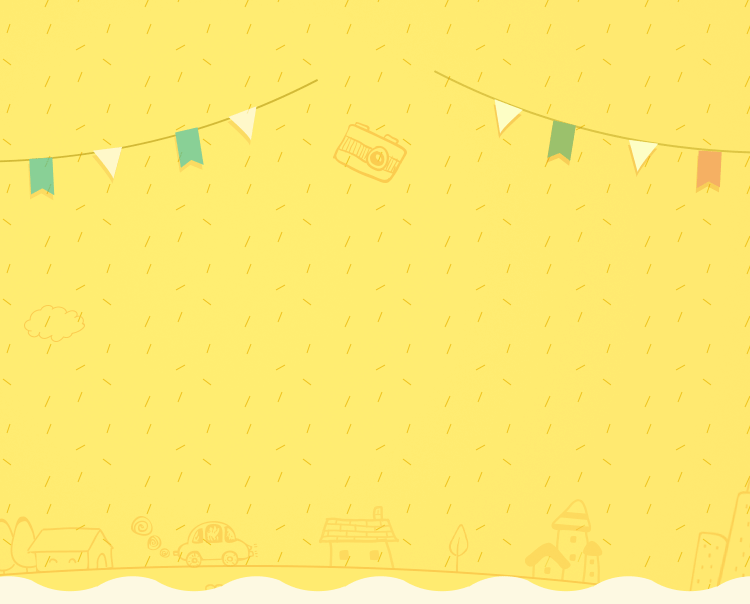
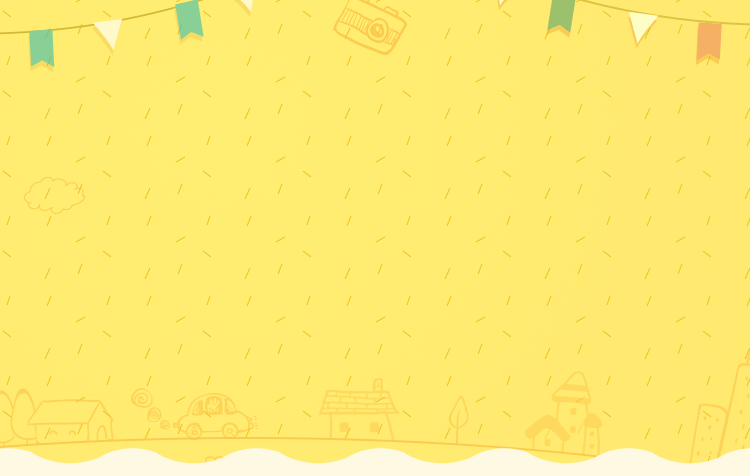
update

diff --git a/activity/fatherDay2016/sass/index.scss b/activity/fatherDay2016/sass/index.scss
@@ -16,7 +16,7 @@
 .banner {
 	width: 100%;
 	position: relative;
-	height: pxToRem(604px);
+	height: pxToRem(476px);
 	background-image: url("../images/icon-banner-bg.png");
 	background-size: cover;
 	background-repeat: no-repeat;
@@ -30,7 +30,7 @@
 		background-repeat: no-repeat;
 		background-position: 50% 50%;
 		left: pxToRem(90px);
-		top: pxToRem(205px);
+		top: pxToRem(77px);
 		z-index: 999;
 	}
 	.icon-text {
@@ -42,7 +42,7 @@
 		background-repeat: no-repeat;
 		background-position: 50% 50%;
 		left: pxToRem(225px);
-		top: pxToRem(205px);
+		top: pxToRem(77px);
 		z-index: 9999;
 	}
 	.icon-text2 {
@@ -54,7 +54,7 @@
 		background-repeat: no-repeat;
 		background-position: 50% 50%;
 		left: pxToRem(90px);
-		top: pxToRem(205px);
+		top: pxToRem(77px);
 		z-index: 99
 	}
 	.icon-person {
@@ -66,12 +66,12 @@
 		background-repeat: no-repeat;
 		background-position: 50% 50%;
 		right: 0;
-		top: pxToRem(205px);
+		top: pxToRem(77px);
 		z-index: 99999;
 	}
 }
 .rule-desc {
-	margin-top: pxToRem(18px);
+	margin-top: pxToRem(40px);
 	margin-bottom: pxToRem(40px);
 	.text {
 		color: #ae7524;

diff --git a/activity/fatherDay2016/js/page2.js b/activity/fatherDay2016/js/page2.js
@@ -103,6 +103,8 @@
         window.location.href = "./upload.html?t=" + t + "&s=" + s;
     });
 
-
+    $(".sbody").on('click', '.piccont', function() {
+        window.location.href = "./picDetail.html";
+    })
 
 })();
